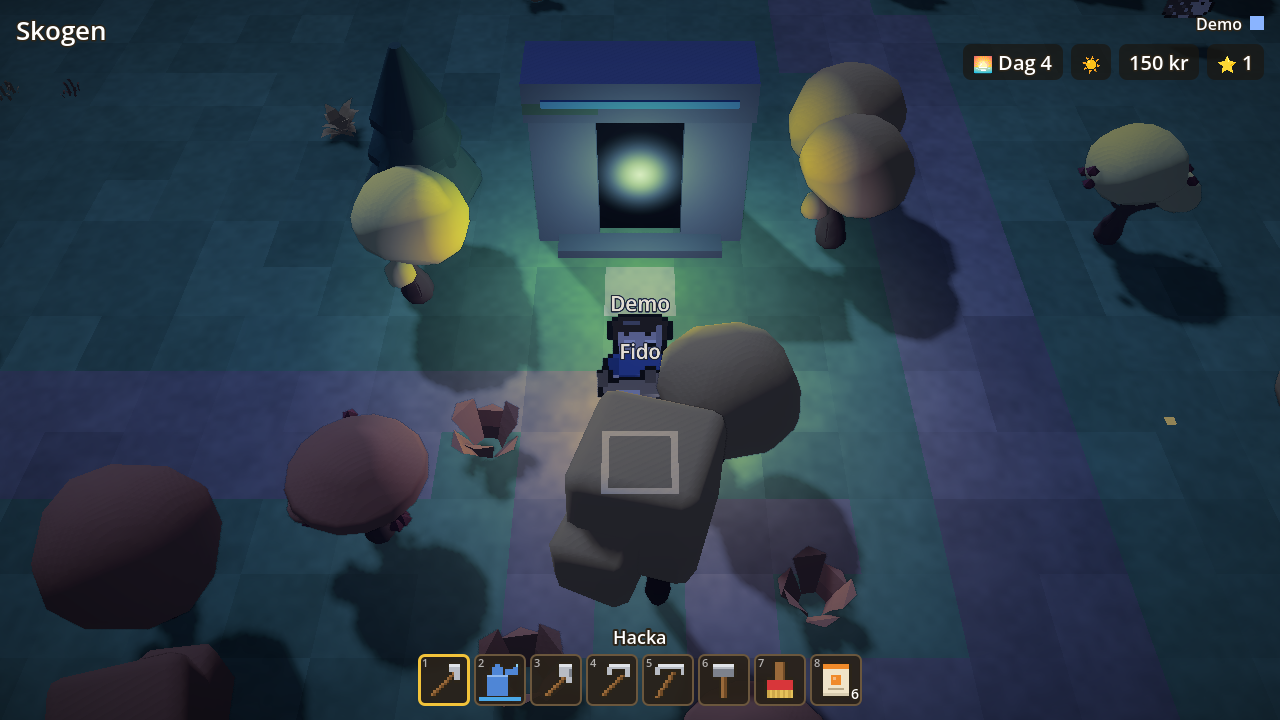
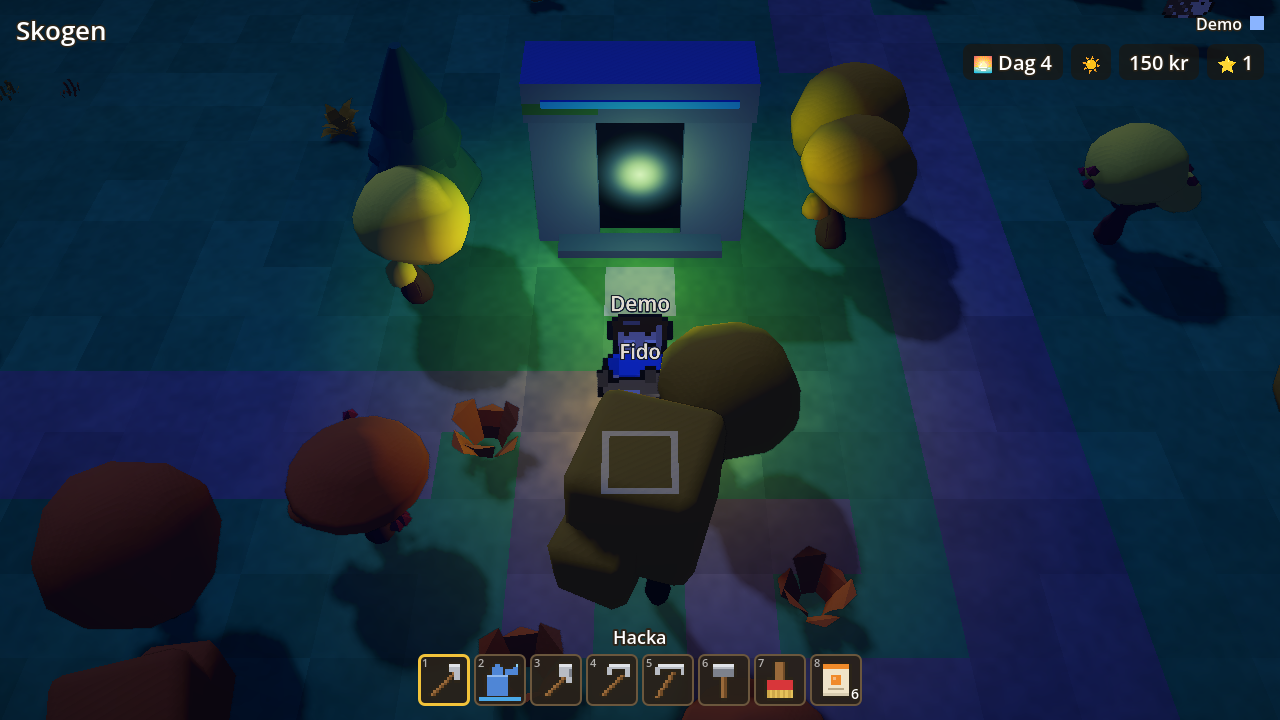
Godot client: the atmosphere re-tuned rich and warm, not pastel
Claude-Session: https://claude.ai/code/session_01KTh22rMH5UutKMoSA5XCUG

diff --git a/packages/godot/ART.md b/packages/godot/ART.md
@@ -309,7 +309,7 @@ frame; the camera's move into the room is one `Transform3D` a frame while it eas
 
 
 ## Atmosphere (2026-11-06)
-The look of the day is the browser's, made in three layers. **The light** (`day_night.gd`): the `DAY` table's colour is the ambient light, the sun, the moon and the fog colour at once, so grass goes dark blue-teal at night and the dusk is a dusty violet; sun shadows are soft (`light_angular_distance`, `shadow_blur`) and about a quarter darker than lit ground. **The grade** (`screen_grade.gd` / `screen_grade.gdshader`, one full-screen pass on every preset, under the HUD): the browser's warm grade, less saturation (more in fog and rain), a push toward blue at night that keeps lamps warm, a vignette that closes in with the dark, and the double flash of lightning. Indoors and in dungeons: warm and vignette, no night tint. **Light you can see**: lamps are 6-9 m OmniLights from the browser's colours with a ground pool (`light_pool.gdshader`, an additive flat quad: this is what shows on Låg), switched on from `dark` 0.35 to 0.75; the farmhouse's gable window has a beam of light on the ground in front of the door, the shops and the station the same; the hero carries a lantern (OmniLight, 5.5 m, no shadow) outdoors after dark. Glow (Mellan, Hög) opens up with the dark; Låg's haze quads stand in.
+The look of the day is the browser's, made in three layers. **The light** (`day_night.gd`): the `DAY` table's colour is the ambient light, the sun, the moon and the fog colour at once, so grass goes dark blue-teal at night and the dusk is a dusty violet; sun shadows are soft (`light_angular_distance`, `shadow_blur`) and about a quarter darker than lit ground. **The grade** (`screen_grade.gd` / `screen_grade.gdshader`, one full-screen pass on every preset, under the HUD): the browser's warm grade, a little more colour than the render (never less, even in fog), a multiply toward saturated navy at night that keeps lamps warm, a vignette that closes in with the dark, and the double flash of lightning. Indoors and in dungeons: warm and vignette, no night tint. **Light you can see**: lamps are 6-9 m OmniLights from the browser's colours with a ground pool (`light_pool.gdshader`, an additive flat quad: this is what shows on Låg), switched on from `dark` 0.35 to 0.75; the farmhouse's gable window has a beam of light on the ground in front of the door, the shops and the station the same; the hero carries a lantern (OmniLight, 5.5 m, no shadow) outdoors after dark. Glow (Mellan, Hög) opens up with the dark; Låg's haze quads stand in.
 - **Weather.** Rain: slanted streaks (twice as many in a storm), splash rings on the ground, puddles in the ground shader (`puddle`, filled in rain, drying over ~40 s, mirror the sky colour), cooler grade. Fog: depth fog plus eight drifting banks (flat, soft, over the ground); the same banks are the dawn mist. Snow: big soft flakes and small sharp ones that drift sideways. Hail: short, bright, fast. Cloud shadows (`cloud`): faint in sun, big and slow when cloudy, on props as well as the ground.
 - **Extras.** Fireflies (14 blinking glows, warm nights May-September or midsommar, calm weather), dew sparkles on the morning grass, chimney smoke on the farmhouse, the pond taking the night sky with star glints, autumn leaves drifting.
 - **Presets.** Låg: the grade, lamps' ground pools, banks and the extras that are quads; no OmniLight shadows, no glow, no cloud shadows, weather particles at 150. Mellan: glow, SSAO, sun shadows (1024), weather 600. Hög: adds torch shadows, SDFGI, volumetric fog, 2048 sun shadows, weather 1500.
